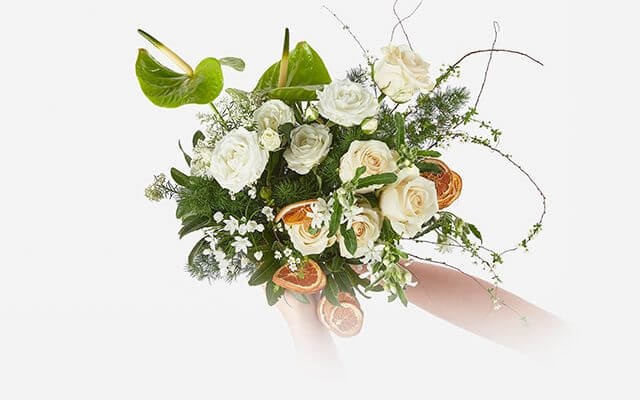
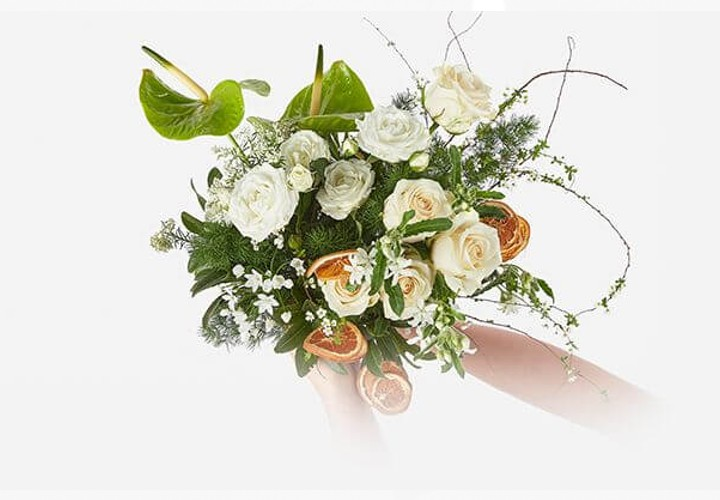
feat: image 파트 기능구현

diff --git a/build/style.css b/build/style.css
@@ -3,25 +3,28 @@ li {list-style-type: none;}
 a {color: inherit; text-decoration: none; cursor: pointer; padding: 0;}
 a:hover {color: inherit; text-decoration: none; }
 .image__inner {max-width: 1240px; margin: 0 auto; padding: 0 60px;}
-#image .image-container {position: relative;}
+.image__inner .image-title__inner {position: relative; padding-top: 90px;}
+.image__inner .image-title__inner > h2 {font-size: 22px; line-height: 34px; font-weight: 500; letter-spacing: -.33px; color: #222;}
+.image__inner .image-title__inner > a {position: absolute; bottom: 0; right: 0; font-size: 14px; line-height: 20px; font-weight: 300; letter-spacing: -.21px; color: #787878;}
+#image .image-container {position: relative; padding: 40px 0 120px; }
 #image .image-container .control > a {position: absolute; top: 25%; }
 #image .image-container .control .prev {left: -35px; }
 #image .image-container .control .next {right: -35px; }
-#image .image-big {width: 50%; display: inline-block; position: relative;}
-#image .image-big > img {width: 100%;}
-#image .image-big .image-big-subtitle {position: absolute; bottom: 7%; left: 35px;}
-#image .image-big .image-big-subtitle > span {display: block;}
-#image .image-big .image-big-subtitle > span:nth-child(1) {overflow: hidden;text-overflow: ellipsis; white-space: nowrap; font-size: 18px; line-height: 27px; font-weight: 300; letter-spacing: -.27px; color: #222;}
-#image .image-big .image-big-subtitle > span:nth-child(2) {padding-right: 20px; font-size: 25px; line-height: 37px; font-weight: 700; letter-spacing: -.38px; color: #222;}
-#image .image-big .image-big-subtitle > span:nth-child(2)::after {content: '>'; padding-left: 10px;}
+#image-big {width: 50%; display: inline-block; position: relative; padding-right: 2%;}
+#image-big > img {width: 100%; position: relative;}
+#image-big .image-big-subtitle {position: absolute; bottom: 7%; left: 35px;}
+#image-big .image-big-subtitle > span {display: block;}
+#image-big .image-big-subtitle > span:nth-child(1) {overflow: hidden;text-overflow: ellipsis; white-space: nowrap; font-size: 18px; line-height: 27px; font-weight: 300; letter-spacing: -.27px; color: #222;}
+#image-big .image-big-subtitle > span:nth-child(2) {padding-right: 20px; font-size: 25px; line-height: 37px; font-weight: 700; letter-spacing: -.38px; color: #222;}
+#image-big .image-big-subtitle > span:nth-child(2)::after {content: '>'; padding-left: 10px;}
 
 #image .image-small__inner {width: 50%; float: right;}
 #image .image-small__inner > li {display: none; }
 #image .image-small__inner > li:first-child {display: block;}
-/* #image .image-small__inner > li + li {margin-top: 5%; padding-top: 5%; border-top: #d3d3d3 1px solid;} */
+#image .image-small__inner > li.top-bar {margin-top: 3%; padding-top: 4%; border-top: #d3d3d3 1px solid;}
 #image .image-small__inner > li .image-small {width: 42%; display: inline-block; overflow: hidden; }
-#image .image-small__inner > li .image-small > img {width: 100%;}
-#image .image-small__inner > li .image-small > img:hover {transform: scale(1.05);transition: all 0.3s ease 0s;}
+#image .image-small__inner > li .image-small > img {width: 100%; zoom: 1;}
+#image .image-small__inner > li .image-small > img:hover {transform: scale(1.05); zoom: 1.05; transition: all 0.3s ease 0s;}
 #image .image-small__inner > li .image-small-more__inner{ display: inline-block; width: 57%; padding-left: 20px; vertical-align: top;}
 #image .image-small__inner > li .image-small-more__inner .image-title {font-size: 16px; line-height: 24px; font-weight: 500; letter-spacing: -.24px; color: #222;}
 #image .image-small__inner > li .image-small-more__inner .image-title:hover {text-decoration: underline;}
@@ -35,3 +38,15 @@ a:hover {color: inherit; text-decoration: none; }
 .place.yellow {border-color: #ffcd32; color:#ffcd32;}
 .place.skyblue {border-color: #00afe3; color:#00afe3;}
 #image .box .image-small__inner > li > a > img {width: 100%;}
+
+@media screen and (max-width: 1024px)
+{ .image__inner {padding: 0 20px;}
+  .image__inner .image-title__inner {padding-top: 40px;}
+  .image__inner .image-title__inner > a {display: none;}
+  #image-big {width: 100%; padding: 0;}
+  #image .image-small__inner {width: 100%; float:initial; padding-top: 20px;}
+  #image .image-small__inner > li .image-small {width: 144px;}
+  #image .image-container {padding-top: 20px;}
+  #image .image-container .control .prev {left: 0px; }
+#image .image-container .control .next {right: 0px; }
+};

diff --git a/index.html b/index.html
@@ -20,12 +20,14 @@
     <main>
       <section id="video"></section>
       <section id="image">
-        <div class="container image__inner">
-          <h2>꽃과 함께 하는 일상, <strong>플라워클래스</strong></h2>
-          <a href="#" class="more-tag">더보기</a>
-          <div class="image-container">
-            <a href="#" class="image-big">
-              <img src="./public/img/img_01.jpeg" id="image-change-big" />
+        <div class="image__inner">
+          <div class="image-title__inner">
+            <h2>꽃과 함께 하는 일상, <strong>플라워클래스</strong></h2>
+            <a href="#" class="more-tag">더보기</a>
+          </div>
+          <div class="image-container" id="change">
+            <a href="#" id="image-big">
+              <img src="./public/img/img_01.jpeg" id="image-change-big" alt="매주 새로운 커리큘럼으로 배우는"/>
               <div class="image-big-subtitle">
                 <span>매주 새로운 커리큘럼으로 배우는</span>
                 <span><strong>플라워 클래스 자세히 보기</strong></span>
@@ -33,9 +35,11 @@
             </a>
             <ul class="image-small__inner">
               <li>
-                <a href="#1" class="image-small"><img src="./public/img/img_01.jpeg" /></a>
+                <a href="#1" class="image-small">
+                  <img src="./public/img/img_01.jpeg" alt="오아이스 리스 배우기"/>
+                </a>
                 <div class="image-small-more__inner">
-                  <a class="image-title">1오아시스 리스(2/21~2/27)</a>
+                  <a class="image-title">오아시스 리스(2/21~2/27)</a>
                   <p class="price">79,000</p>
                   <div class="place-tag">
                     <span class="place purple">광화문점</span>
@@ -48,9 +52,11 @@
                 </div>
               </li>
               <li>
-                <a href="#2" class="image-small"><img src="./public/img/img_02.jpeg" /></a>
+                <a href="#2" class="image-small">
+                  <img src="./public/img/img_02.jpeg"  alt="클래식 핸드타이드 배우기"/>
+                </a>
                 <div class="image-small-more__inner">
-                  <a class="image-title">2클래식 핸드타이드(2/28~3/6)</a>
+                  <a class="image-title">클래식 핸드타이드(2/28~3/6)</a>
                   <p class="price">79,000</p>
                   <div class="place-tag">
                     <a class="place green">잠실점</a>
@@ -61,10 +67,12 @@
                   </div>
                 </div>
               </li>
-              <li>
-                <a href="#3" class="image-small"><img src="./public/img/img_03.jpeg" /></a>
+              <li class="top-bar">
+                <a href="#3" class="image-small">
+                  <img src="./public/img/img_03.jpeg" alt="들꽃 화병꽂이 배우기"/>
+                </a>
                 <div class="image-small-more__inner">
-                  <a class="image-title">3들꽃 화병꽂이(2/21~3/19)</a>
+                  <a class="image-title">들꽃 화병꽂이(2/21~3/19)</a>
                   <p class="price">79,000</p>
                   <div class="place-tag">
                     <a class="place purple">광화문점</a>

diff --git a/src/image.js b/src/image.js
@@ -21,15 +21,21 @@ const initImage = () => {
         slideAll[i].style.display = "block";
       }
       slideAll[n - 1].style.display = "none" ;
-
       PrevBtn.addEventListener('click', function(n) {
         showSlide(slidePrev);
       });
       NextBtn.addEventListener('click', function() {
         showSlide(slideNext);
       });
+      document.getElementById('image-change-big').src = slideAll[n - 1].querySelector('a.image-small > img').src;
+      document.getElementById('image-big').href = slideAll[n - 1].querySelector('a.image-small').href;
+      console.log(slideAll[1]);
 
-
+      if(slideNow === 3) {
+        slideAll[1].classList.add('top-bar')
+      } else {
+        slideAll[1].classList.remove('top-bar')
+      }
     };
     showSlide(1);
   }

diff --git a/src/index.js b/src/index.js
@@ -1,5 +1,3 @@
-import initGNB from './gnb.js';
 import initImage from './image.js';
 
-initGNB();
 initImage();
